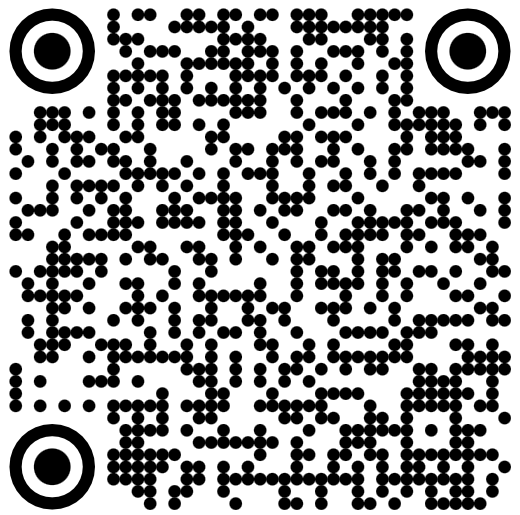
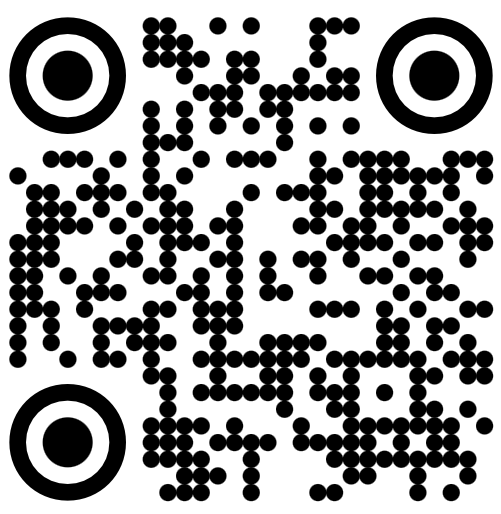
Added links to social networks

diff --git a/index.html b/index.html
@@ -33,8 +33,8 @@
             <p class="main__section-text">Encourage your child to complete their tasks before immersing themselves in
               the digital world.</p>
             <div class="main__section-block__sticker">
-              <a class="main__section-block__sticker-link"
-                href="https://apps.apple.com/us/app/screen-time-chores/id6670467136" aria-label="Download our app">
+              <a class="main__section-block__sticker-link" href="https://apple.co/4fqhb8m"
+                aria-label="Download our app">
                 <img class="main__section-block__sticker-link-img" src="img/link-app.png" alt="Download app link">
               </a>
               <img class="main__section-block__sticker-qr" src="img/QR-code.png" alt="QR code for downloading the app">
@@ -50,7 +50,7 @@
                   </a>
                 </li>
                 <li class="main__section-block__sticker-links-item">
-                  <a href="#" aria-label="Share on LinkedIn">
+                  <a href="https://www.linkedin.com/company/105683069/" aria-label="Share on LinkedIn">
                     <svg width="41" height="41" viewBox="0 0 41 41" fill="none" xmlns="http://www.w3.org/2000/svg"
                       role="img" aria-label="LinkedIn logo">
                       <path
@@ -60,7 +60,7 @@
                   </a>
                 </li>
                 <li class="main__section-block__sticker-links-item">
-                  <a href="#" aria-label="Share on Facebook">
+                  <a href="https://www.facebook.com/profile.php?id=61568569381907" aria-label="Share on Facebook">
                     <svg width="41" height="41" viewBox="0 0 41 41" fill="none" xmlns="http://www.w3.org/2000/svg"
                       role="img" aria-label="Facebook logo">
                       <path
@@ -70,7 +70,7 @@
                   </a>
                 </li>
                 <li class="main__section-block__sticker-links-item">
-                  <a href="#" aria-label="Share on Instagram">
+                  <a href="https://www.instagram.com/screentimechores/" aria-label="Share on Instagram">
                     <svg width="40" height="41" viewBox="0 0 40 41" fill="none" xmlns="http://www.w3.org/2000/svg"
                       role="img" aria-label="Instagram logo">
                       <path
@@ -147,8 +147,7 @@
     <div class="container">
       <div class="footer__content">
         <h2 class="footer__content-title">Download now and make screen time smarter for your family!</h2>
-        <a class="footer__content-link" href="https://apps.apple.com/us/app/screen-time-chores/id6670467136"
-          aria-label="Download our app">
+        <a class="footer__content-link" href="https://apple.co/4fqhb8m" aria-label="Download our app">
           <img class="footer__content-link-img" src="img/link-app.png" alt="Download app link">
         </a>
         <ul class="footer__content-block__sticker-links">
